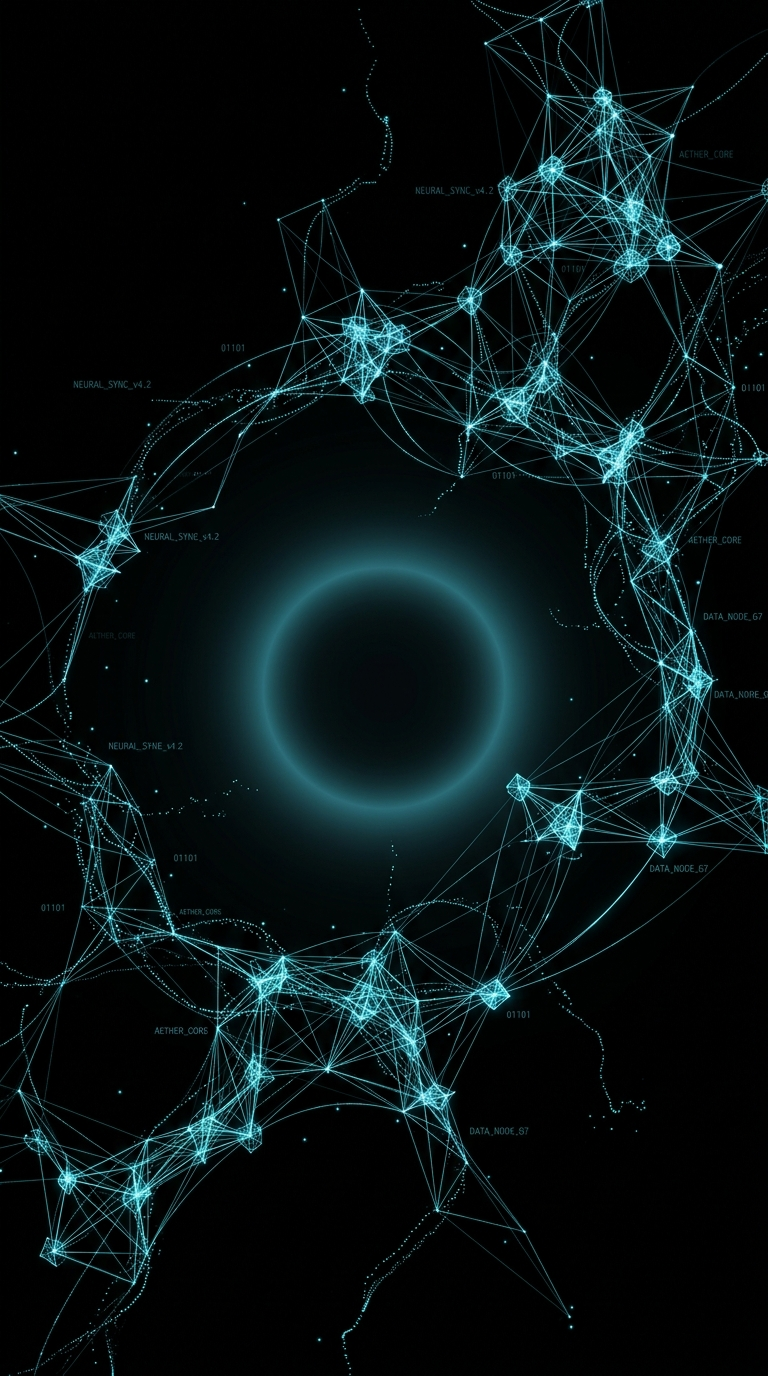
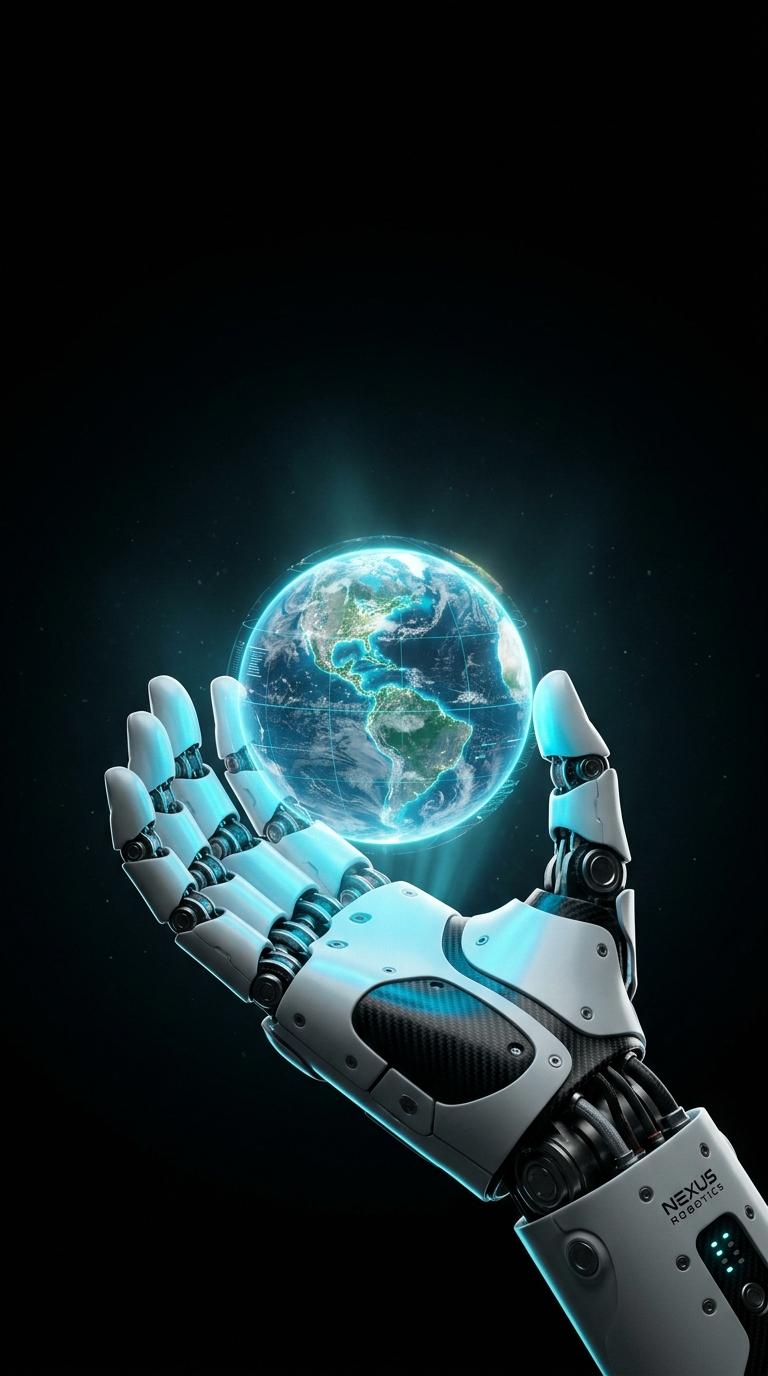
change image

diff --git a/app/page.tsx b/app/page.tsx
@@ -286,27 +286,25 @@ export default function HomePage() {
     <div className="w-full flex flex-col bg-[#030303] text-white">
       {/* ── 1. HERO SECTION WITH BACKGROUND VIDEO ── */}
       <section className="relative min-h-screen flex items-center justify-center -mt-16 sm:-mt-20 pb-20 md:pb-24 overflow-hidden border-b border-slate-800">
-        {/* Background Visual: Desktop Video & Mobile-Optimized Neural Backdrop */}
-        <div className="absolute inset-0 w-full h-full overflow-hidden z-0 flex items-center justify-center pointer-events-none">
-          {/* Desktop: Looping Hero Video */}
+        {/* Background Looping Video - Crystal Clear & Unobstructed */}
+        <div className="absolute inset-0 w-full h-full overflow-hidden z-0">
+          {/* Desktop Video (Identical to original) */}
           <video
             autoPlay
             loop
             muted
             playsInline
             preload="metadata"
-            className="hidden md:block w-full h-full min-w-full min-h-full object-cover object-center brightness-100 contrast-100 saturate-100 pointer-events-none"
-            style={{ objectPosition: "center center" }}
+            className="hidden md:block w-full h-full object-cover brightness-100 contrast-100 saturate-100"
           >
             <source src="/hero-video.mp4" type="video/mp4" />
           </video>
 
-          {/* Mobile: Specifically Composed Vertical High-Tech Neural Backdrop */}
+          {/* Mobile Image */}
           <img
             src="/hero-mobile-bg.jpg"
             alt="Robotwala Autonomous AI & Robotics Background"
-            className="block md:hidden w-full h-full min-w-full min-h-full object-cover object-center brightness-100 contrast-100 saturate-100 pointer-events-none"
-            style={{ objectPosition: "center center" }}
+            className="block md:hidden w-full h-full object-cover object-center brightness-100 contrast-100 saturate-100"
           />
 
           {/* Ambient corner glows to eliminate dark corner shading */}
